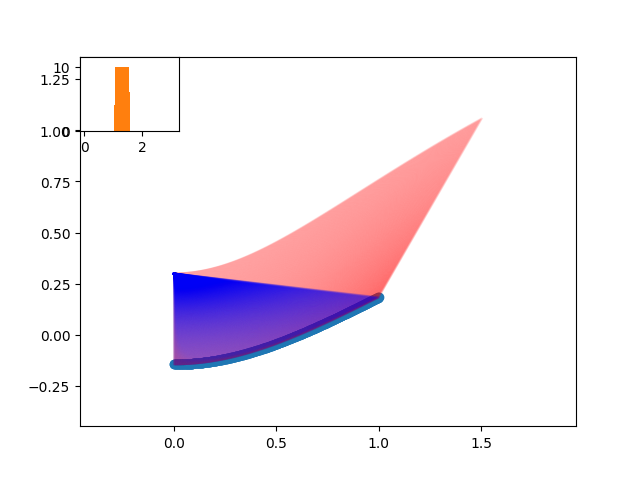
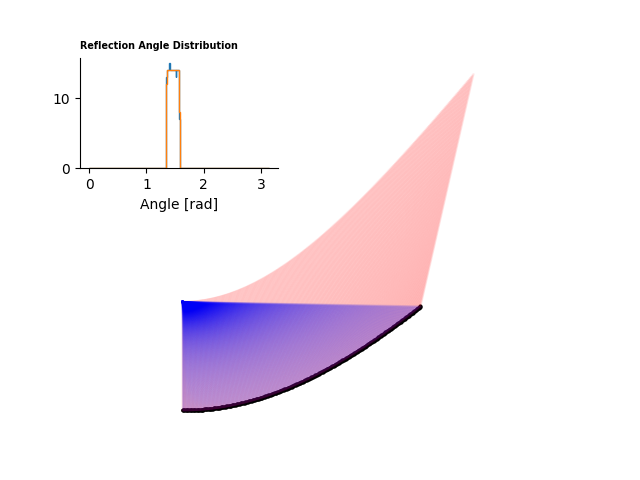
Minor refactoring.

diff --git a/bulb_shade.py b/bulb_shade.py
@@ -16,8 +16,8 @@ def cast(points_and_angles: np.ndarray, lens: np.ndarray) -> np.ndarray:
     points = points_and_angles[:, :2]
     angles = points_and_angles[:, 2]
 
-    dxs = lens * torch.cos(angles)
-    dys = lens * torch.sin(angles)
+    dxs = lens * np.cos(angles)
+    dys = lens * np.sin(angles)
 
     return points + np.vstack([dxs, dys]).T
 
@@ -44,7 +44,7 @@ class Mirror:
     def plot(self):
         surf = self.surface.detach().numpy()
 
-        plt.plot(surf[:, 0], surf[:, 1], marker="o")
+        plt.plot(surf[:, 0], surf[:, 1], marker="o", markersize=2, color="black")
 
         incoming_rays, outgoing_rays = self.reflect()
         incoming_rays = incoming_rays.detach().numpy()
@@ -72,10 +72,21 @@ class Mirror:
                 alpha=ALPHA,
             )
 
-        ax = plt.gca().inset_axes([0.0, 0.8, 0.2, 0.2])
-        ax.hist(self.reflection_angle_distr().detach().numpy(), REFLECTION_BINS)
-        ax.hist(get_target(self.num_pieces), REFLECTION_BINS)
+        ax = plt.gca().inset_axes([0.0, 0.7, 0.4, 0.3])
+        _common = {"bins": REFLECTION_BINS, "histtype": "step"}
+        ax.hist(self.reflection_angle_distr().detach().numpy(), **_common)
+        ax.hist(get_target(self.num_pieces), **_common)
+        ax.set_xlabel("Angle [rad]")
+        ax.set_title(
+            "Reflection Angle Distribution",
+            fontsize="x-small",
+            loc="left",
+            weight="bold",
+        )
+        ax.spines[["top", "right"]].set_visible(False)
+        ax.patch.set_alpha(0.5)
 
+        plt.axis("off")
         plt.axis("equal")
 
     def reflection_angle_distr(self) -> torch.tensor:
@@ -120,9 +131,13 @@ def main():
         loss_ = loss(vals, target)
         if i % 1000 == 0:
             print(f"Loss: {loss_}")
-        if i % 10000 == 0:
+        if i % 10 == 0:
             mirror.plot()
-            plt.show()
+            plt.savefig(f"figs/{i:06d}.png")
+            if i % 1000 == 0:
+                plt.show()
+            plt.clf()
+
         loss_.backward()
         # mirror._ys.grad[0] = 0
 

diff --git a/README.md b/README.md
@@ -2,4 +2,8 @@
 
 Use: `uv sync` and `uv run bulb_shade.py --nmu-rays 500` to run the code.
 
+Make video:
+
+`ffmpeg -framerate 30 -pattern_type glob -i 'figs/*.png' out.mp4`
+
 ![Look at this](https://github.com/topiko/plantlightshade/blob/main/bulpshade.png)
